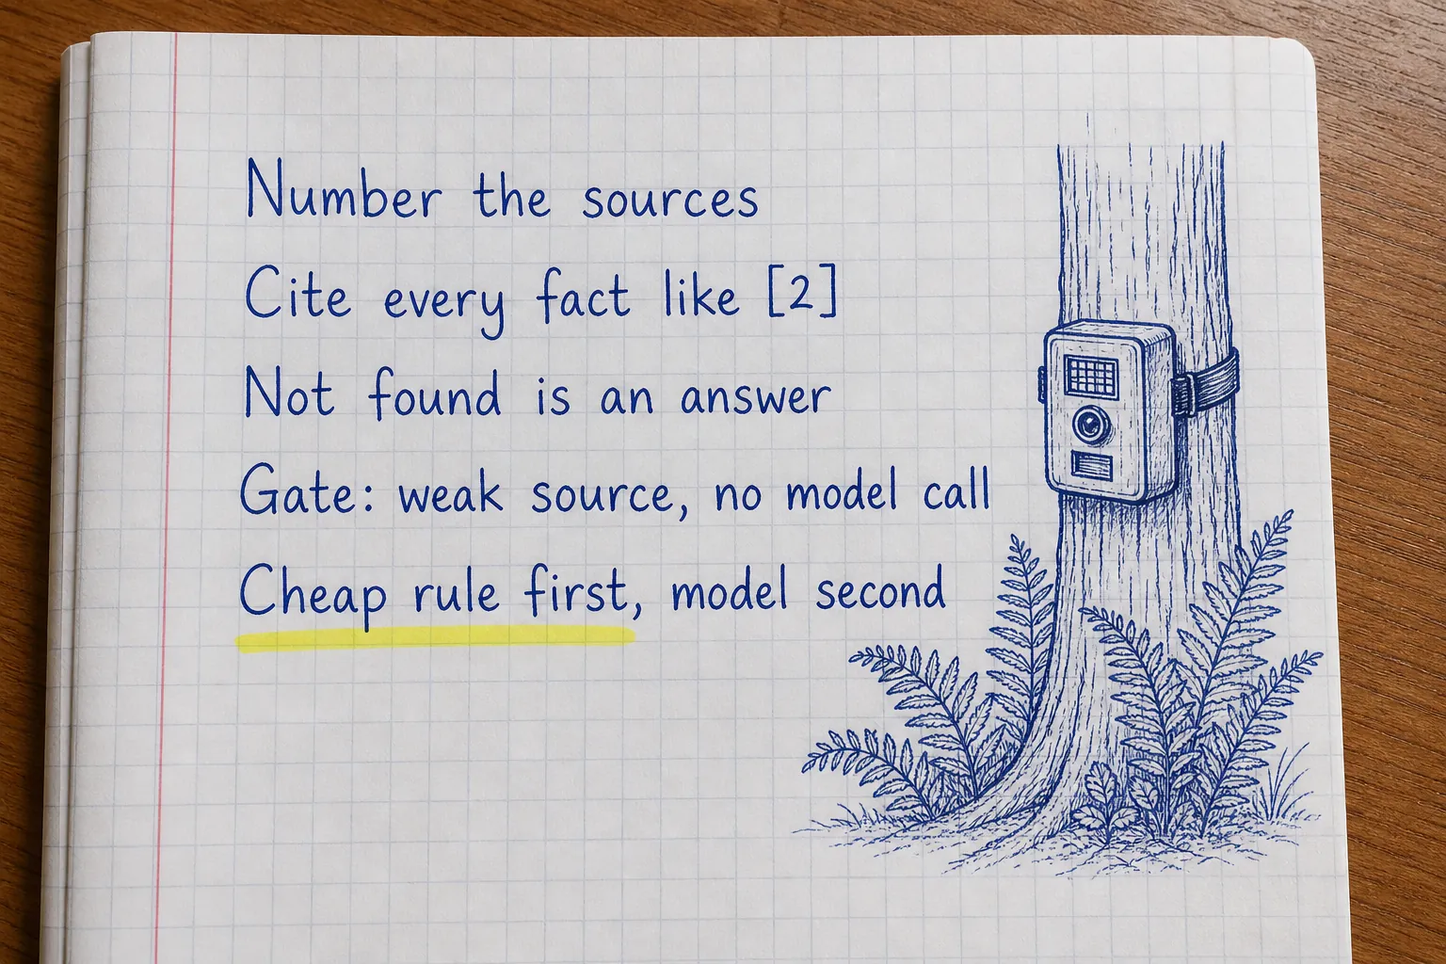
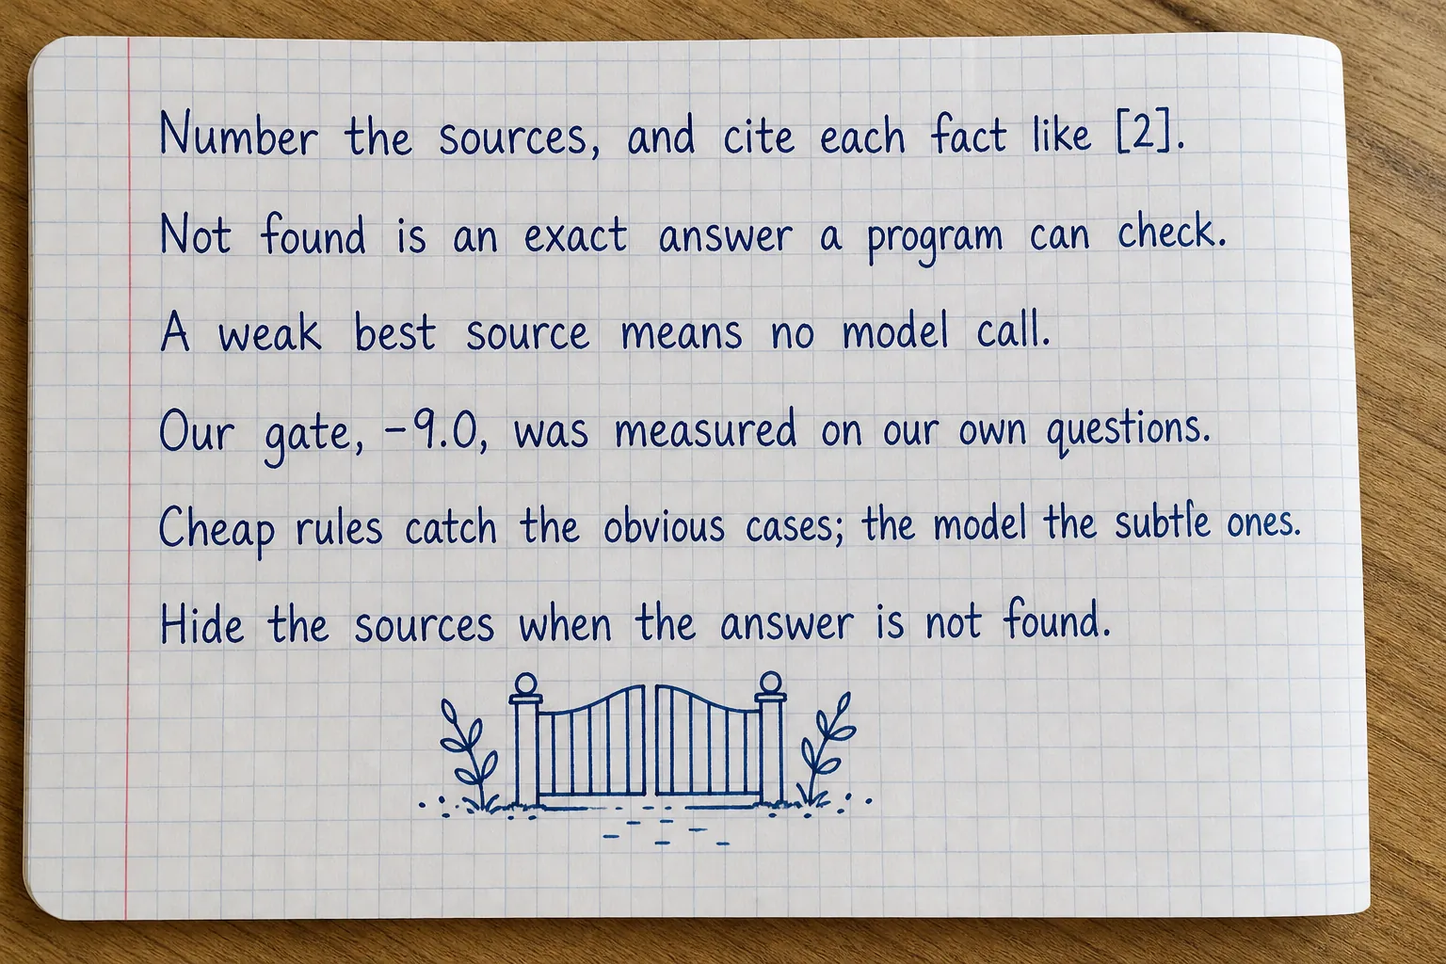
RAG chapter 11 rewritten: plain and fuller, a still gate picture with all real scores, claims checked and corrected

diff --git a/frontend/src/lesson/Diagrams.tsx b/frontend/src/lesson/Diagrams.tsx
@@ -3652,6 +3652,35 @@ function RagTwoStage() {
   );
 }
 
+function RagGate() {
+  // Real best reranker scores from two_stage(): the 26 test questions, and 8 questions the documents do not answer.
+  const answered = [-8.0, -7.6, -6.6, 0.1, 1.2, 1.9, 2.2, 3.0, 3.7, 3.9, 4.0, 4.2, 4.4, 4.4, 4.6, 5.0, 5.1, 5.4, 5.5, 5.7, 6.4, 6.8, 7.0, 7.4, 8.9, 9.9];
+  const missing = [-11.0, -10.7, -9.6, -8.1, -6.9, -2.1, 0.6, 3.3];
+  const x = (v: number) => 20 + ((v + 12) / 22) * 400;
+  const dots = (vals: number[], y: number, fill: string, k: string) =>
+    vals.map((v, i) => <circle key={`${k}${i}`} cx={x(v)} cy={y + (i % 2 ? 7 : -7)} r={5} style={{ fill, stroke: "var(--figure-line)", strokeWidth: 1 }} />);
+  return (
+    <Svg viewBox="0 0 440 300" label="Best reranker scores on a number line: the 26 answered questions from -8.0 to 9.9, the 8 unanswerable ones from -11.0 to 3.3, and the gate at -9.0">
+      <text className="dg-label" x={0} y={18}>Best reranker score of each question</text>
+      <text className="dg-note" x={x(-9) + 6} y={44}>gate: -9.0</text>
+      <line x1={x(-9)} y1={30} x2={x(-9)} y2={214} style={{ stroke: "var(--vermilion, #c63f28)", strokeWidth: 2, strokeDasharray: "5 4" }} />
+      <text className="dg-note" x={x(-1)} y={72}>answered by the documents (26)</text>
+      {dots(answered, 96, "var(--figure-green)", "a")}
+      <text className="dg-note" x={x(-1)} y={146}>not in the documents (8)</text>
+      {dots(missing, 170, "var(--figure-yellow)", "m")}
+      <line x1={20} y1={214} x2={420} y2={214} className="dg-arrow" style={{ markerEnd: "none" }} />
+      {[-12, -8, -4, 0, 4, 8].map((t) => (
+        <g key={t}>
+          <line x1={x(t)} y1={210} x2={x(t)} y2={218} className="dg-arrow" style={{ markerEnd: "none" }} />
+          <text className="dg-note" x={x(t)} y={234} textAnchor="middle">{t}</text>
+        </g>
+      ))}
+      <text className="dg-note" x={0} y={262}>Left of the gate: answered at once, no model call (3 questions).</text>
+      <text className="dg-note" x={0} y={282}>Right of it: the model is asked, and its rules catch the rest.</text>
+    </Svg>
+  );
+}
+
 const DIAGRAMS: Record<string, () => JSX.Element> = {
   "rag-flow": RagFlow,
   "rag-embed": RagEmbed,
@@ -3663,6 +3692,7 @@ const DIAGRAMS: Record<string, () => JSX.Element> = {
   "rag-filter": RagFilter,
   "rag-rrf": RagRrf,
   "rag-two-stage": RagTwoStage,
+  "rag-gate": RagGate,
   "rs-cli": RsCli,
   "rs-rc-refcell": RsRcRefCell,
   "rs-threads": RsThreads,

diff --git a/labs/rag-vector-databases/chapters/11-grounded-answers.md b/labs/rag-vector-databases/chapters/11-grounded-answers.md
@@ -1,13 +1,15 @@
 :::step{type=story title="An answer you can check"}
-Retrieval is done: for any question, Fieldbook can now find the five chunks most likely to answer it, hybrid search
-for candidates and the reranker for the order. Now the "generation" part of RAG: turning chunks into an answer a ranger can act on at
-2 a.m.
+Retrieval is done. For any question, Fieldbook can now find the five chunks most likely to answer it: hybrid search finds
+the candidates, and the reranker puts them in order. Now comes the "generation" part of RAG: turning those chunks into an
+answer a ranger can act on at 2 a.m.
 
 Two things make that answer trustworthy, and both are your design, not the model's:
 
 1. **It shows its sources.** Every fact carries a number pointing to the chunk it came from, so anyone can check it.
-2. **It says when it does not know.** If the manual and reports do not cover a question, Fieldbook says so instead of
-   inventing something plausible. Sometimes it does not even need to ask the model.
+2. **It says when it does not know.** If the manual and the reports do not cover a question, Fieldbook says so instead
+   of inventing something that sounds right. Sometimes it does not even need to ask the model.
+
+An answer built only from the documents you supply, and traceable back to them, is called a **grounded** answer.
 
 :::mission
 Number the sources in the prompt so the model can cite them, then add a gate: when the best chunk is clearly unrelated,
@@ -17,7 +19,7 @@ answer "not found" without calling the model at all.
 
 :::step{type=concept title="Numbered sources, and rules for using them" file="11-grounded-answers/fieldbook.py" line="358-370"}
 Chapter 1's prompt listed sections by their ids. This prompt numbers them, because short numbers are easy for a model to
-cite and easy for a program to check:
+cite and easy for a program to check. Here is the start of a real prompt for one question:
 
 ```text
 Sources:
@@ -32,58 +34,99 @@ Crown fire on the southern slope of B-05 during strong wind. The crew withdrew t
 Question: What should the crew do when the treetops are burning?
 ```
 
-The system message, `GROUNDED`, sets the rules:
+The **system message** is the first message of a chat: the model treats it as standing instructions, and the user
+message after it holds the sources and the question. Fieldbook's system message, `GROUNDED`, sets four rules:
 
 | Rule | Why |
 |---|---|
 | answer only from the numbered sources | the model's general knowledge about fires is not the sanctuary's procedure |
-| cite each fact with its number, like [2] | every claim can be traced and checked |
-| if the sources do not contain the answer, reply exactly NOT_FOUND | an exact sentence a program can recognise |
+| after each fact, cite its source number, like [2] | every claim can be traced and checked |
+| if the sources do not contain the answer, reply exactly "I could not find this in the Fieldbook." | one exact sentence that a program can recognise (it is stored as `NOT_FOUND`) |
 | at most four sentences | a ranger on a radio needs the instruction, not an essay |
 
 The answer also returns the sources' ids, so the app can show "from FM-5.3 and R-0409" with links.
 :::
 
 :::step{type=task task=grounded_prompt title="Your turn: numbered sources" file="11-grounded-answers/fieldbook.py" line="365-370"}
-Write `grounded_messages(question, sources)`: the system message `GROUNDED`, then a user message made of `"Sources:"`, a
-blank line, every source as `[1] FM-5.3: Fighting a ground fire` on one line and its text on the next (numbered from 1
-with `enumerate(sources, start=1)`, separated by blank lines), a blank line, and `"Question: "` with the question.
+Write `grounded_messages(question, sources)`. It returns a list of two messages:
+
+1. `{"role": "system", "content": GROUNDED}`.
+2. `{"role": "user", "content": ...}`, where the content is, in order:
+   - `"Sources:"`, then a blank line;
+   - every source as two lines: `[1] FM-5.3: Fighting a ground fire` and then its text. Number them from 1 with
+     `enumerate(sources, start=1)`, and put a blank line between sources (`"\n\n".join(...)`);
+   - a blank line, then `"Question: "` followed by the question.
+
+The usual slips:
+
+- Numbering from 0: the model then cites [0], and [1] points at the second source.
+- Using `s["text"]` without the id and title line: the app can no longer show which section a number means.
 
 Press **Check**.
 :::
 
 :::step{type=concept title="Do not ask when there is nothing to find" file="11-grounded-answers/fieldbook.py" line="362-379"}
 Some questions are simply not covered: the entry fee for foreign tourists, the capital of France. Retrieval still returns
-five chunks (it always returns the nearest ones, chapter 8 showed that), but they are about something else. You could
-send them to the model and trust it to say "not found". It usually does, and you pay for the call each time.
+five chunks (it always returns the nearest ones; chapter 8 showed that), but they are about something else. You could
+send them to the model and trust it to say "not found". It usually does, but you pay for every call.
 
-The reranker's score gives a cheaper first line of defence. These are the best scores for the 26 test questions and for
-eight questions the documents do not answer:
+The reranker's score gives a cheaper first line of defence. We ran the real two-stage search on all 26 test questions
+and on eight questions the documents do not answer, and noted the best reranker score of each:
 
 | Questions | Best reranker score, lowest to highest |
 |---|---|
-| answered by the documents | -8.0, -7.6, -6.6, 0.1, 1.2, 1.9, ... up to 9.9 |
-| not in the documents | -11.0, -10.7, -9.6, -8.7, -6.9, 0.6, 1.0, 3.3 |
+| the 26 answered by the documents | -8.0, -7.6, -6.6, 0.1, 1.2, 1.9, 2.2, ... up to 9.9 |
+| 8 not in the documents | -11.0, -10.7, -9.6, -8.1, -6.9, -2.1, 0.6, 3.3 |
 
-The two groups overlap: "How many tigers live in Vanrai?" (0.6) and "Who is the Range Forest Officer?" (3.3) find chunks
-that **sound** relevant, and three real questions in everyday words score as low as -8.0. No threshold separates them
-perfectly. So the gate is set where it is safe: `MIN_RERANK = -9.0` stops the three clearly unrelated questions (the
-capital of France, renewing a driving licence, a foreign tourist's entry fee) and never blocks a real one. Everything
-above it goes to the model, whose instructions handle the rest.
+The eight unanswerable questions, with their scores:
+
+| Question | Best chunk | Score |
+|---|---|---|
+| What is the capital of France? | FM-1.1 | -11.0 |
+| How do I renew my driving licence? | FM-6.3 | -10.7 |
+| What is the entry fee for a foreign tourist? | FM-1.1 | -9.6 |
+| When was the sanctuary founded? | FM-5.1 | -8.1 |
+| Which mobile network works best in the sanctuary? | FM-9.2 | -6.9 |
+| What is the salary of a beat guard? | FM-8.2 | -2.1 |
+| How many tigers live in Vanrai? | FM-4.3 | 0.6 |
+| Who is the Range Forest Officer? | FM-8.2 | 3.3 |
+
+The two groups overlap. "Who is the Range Forest Officer?" (3.3) finds a chunk that **sounds** relevant, because FM-8.2
+mentions the officer, and three real questions in everyday words score as low as -8.0 (cooking at the gate, a big cat on
+the trail, the jeep). No single number separates the groups perfectly.
+
+:::diagram{name="rag-gate"}
+Every dot is one question's best reranker score, from the real two-stage search. The groups overlap from -8.0 to 3.3,
+so no single number separates them. The gate at -9.0 blocks no real question and keeps a margin below the lowest real
+one (-8.0).
+:::
+
+So the gate is set where it is safe: `MIN_RERANK = -9.0`. On these questions it stops the three clearly unrelated ones
+(the capital of France, the driving licence, the entry fee) and never blocks a real one. Everything above it goes to the
+model, whose instructions handle the rest. This -9.0 belongs to this reranker and these documents: with another model or
+other data, measure again.
 
 That is a general pattern: a cheap rule for the obvious cases, the expensive model for the subtle ones.
 :::
 
 :::step{type=task task=refuse_unsure title="Your turn: no answer without a source" file="11-grounded-answers/fieldbook.py" line="373-379"}
-Write `answer(question, sources, client)`:
+Write `answer(question, sources, client)`. `sources` are the reranked chunks from `two_stage`, best first, each with its
+`"rerank"` score. `client` is an OpenAI client; in the lab it is already pointed at the lab's model gateway, which gives
+its chat model the name `lab-chat`.
 
-1. If there are no sources, or `sources[0]["rerank"] < MIN_RERANK`, return
-   `{"answer": NOT_FOUND, "sources": []}` without calling the model.
+1. If there are no sources, or `sources[0]["rerank"] < MIN_RERANK`, return `{"answer": NOT_FOUND, "sources": []}`
+   **without** calling the model.
 2. Otherwise call `client.chat.completions.create(model="lab-chat", messages=grounded_messages(question, sources),
    temperature=0)`.
-3. Return `{"answer": <the reply's text>, "sources": [each source's "id"]}`.
+3. Return `{"answer": reply.choices[0].message.content, "sources": [s["id"] for s in sources]}`.
 
-`temperature=0` makes the model pick its most likely words, so the same question gives (nearly) the same answer.
+**temperature** controls how freely the model chooses its words. At 0 it takes its most likely word each time, so the same
+question gives the same answer, or very nearly.
+
+The usual slips:
+
+- Checking `sources[0]["rerank"]` before checking that `sources` is not empty: an empty list then raises an IndexError.
+- Returning the chunks themselves under `"sources"` instead of their ids.
 
 ```bash run
 cd /workspace/11-grounded-answers && python ask.py
@@ -93,22 +136,25 @@ Press **Check**.
 :::
 
 :::step{type=try title="Four questions, four behaviours"}
+The best sources and their scores below are what the search returns every time. The answers come from the language model,
+so your wording may differ a little; this is one real run from when the lab was written.
+
 ```text
 $ python ask.py
 What should the crew do when the treetops are burning?
   best source: FM-5.3 (4.0)
   When the treetops are burning, the crew should never fight a crown fire. Instead, they should move everyone to a fire line or a burnt area and wait for the fire to reach it [1].
-  sources: ['FM-5.3', 'R-0409', 'FM-3.3', 'R-0306', 'FM-5.1'] 
+  sources: ['FM-5.3', 'R-0409', 'FM-3.3', 'R-0306', 'FM-5.1']
 
 Which animal injures the most people?
   best source: FM-4.5 (6.8)
   The sloth bear injures more people in India than any other wild animal, primarily because it attacks when surprised at close range [1].
-  sources: ['FM-4.5', 'FM-4.1', 'FM-4.6', 'FM-8.1', 'FM-7.3'] 
+  sources: ['FM-4.5', 'FM-4.1', 'FM-4.6', 'FM-8.1', 'FM-7.3']
 
 How many tigers live in Vanrai?
   best source: FM-4.3 (0.6)
   I could not find this in the Fieldbook.
-  sources: ['FM-4.3', 'FM-7.3', 'FM-4.2', 'R-0410', 'FM-4.6'] 
+  sources: ['FM-4.3', 'FM-7.3', 'FM-4.2', 'R-0410', 'FM-4.6']
 
 What is the entry fee for a foreign tourist?
   best source: FM-1.1 (-9.6)
@@ -118,18 +164,18 @@ What is the entry fee for a foreign tourist?
 
 Four questions, four different paths through `answer`:
 
-1. **The treetops.** Best source FM-5.3 (4.0): the gate opens, the model answers from it and cites **[1]**. The answer
-   repeats the manual's rule (never fight a crown fire, move to a fire line) instead of generic fire advice.
-2. **The most injuries.** FM-4.5 scores 6.8; the answer names the sloth bear and cites [1]. You can open FM-4.5 and
-   check every word.
+1. **The treetops.** Best source FM-5.3 (4.0): the gate opens, and the model answers from it and cites **[1]**. The
+   answer repeats the manual's rule (never fight a crown fire, move to a fire line) instead of generic fire advice.
+2. **The most injuries.** FM-4.5 scores 6.8. The answer names the sloth bear, as FM-4.5 does ("The sloth bear injures
+   more people in India than any other wild animal"), and cites [1]. You can open FM-4.5 and check every word.
 3. **How many tigers.** The best source, FM-4.3 about leopards near villages, scores 0.6: above the gate, so the model is
-   asked. The sources never give a number, and the model follows its rule: "I could not find this in the Fieldbook."
-   The second line of defence worked. (Notice that `sources` still lists five chunks: the app should hide them when the
-   answer is NOT_FOUND; the deep dive comes back to this.)
-4. **The entry fee.** Best source -9.6, below `MIN_RERANK`: Fieldbook answers at once, **without calling the model**,
-   and lists no sources. That question cost nothing.
+   asked. The sources never give a number, and the model follows its rule and replies NOT_FOUND. The second line of
+   defence worked. (Notice that `sources` still lists five chunks: the app should hide them when the answer is NOT_FOUND;
+   the deep dive comes back to this.)
+4. **The entry fee.** Best source -9.6, below `MIN_RERANK`: Fieldbook answers at once, **without calling the model**, and
+   lists no sources. That question cost nothing.
 
-One more, from the "Guess first" step below:
+One more, the question from the "Guess first" step below:
 
 ```text
 $ python ask.py "Who is the Range Forest Officer?"
@@ -139,10 +185,10 @@ Who is the Range Forest Officer?
   sources: ['FM-8.2', 'FM-7.3', 'FM-1.3', 'FM-4.7', 'FM-8.1']
 ```
 
-FM-8.2 mentions the Range Forest Officer, so the reranker scores it well, but it never gives a name. A model without
-the "only from the sources" rule might well have invented one.
+FM-8.2 says that "the Range Forest Officer decides" the compensation, so the reranker scores it well, but it never gives
+a name. A model without the "only from the sources" rule might well have invented one.
 
-The answer to the second question: a sloth bear, here with her cubs riding on her back.
+The answer to the second question: a sloth bear, here carrying her cubs on her back.
 
 :::photo{src="/lesson-images/rag/sloth-bear.webp" alt="A black sloth bear walking on a forest track with two cubs on her back" credit="Rohit Sharma" license="CC BY-SA 4.0" source="https://commons.wikimedia.org/wiki/File%3ASloth_Bear_with_Cubs_at_Bor_tiger_reserve%2C_Maharashtra%2C_India.jpg"}
 A sloth bear with cubs in Bor Tiger Reserve, Maharashtra.
@@ -155,12 +201,12 @@ An answer without sources asks you to trust whoever wrote it. For a fluent langu
 it sounds equally sure when it is right and when it is inventing.
 :::
 
-Scholars have cited their sources for centuries; the footnote became standard in printed books in the **17th and 18th
-centuries** so that readers could check claims for themselves. Wikipedia made "citation needed" famous (**2000s**). For
-language models, the RAG paper (**2020**) grounded answers in retrieved passages, and in **2021** OpenAI's WebGPT trained
-a model to browse and quote its sources while answering. Since **2023** assistants that cite their sources have become
-the expected form for answering from documents, and "answer only from the sources, and say when they are silent" is the
-first rule of nearly every RAG prompt.
+Scholars have cited their sources for centuries. Printed footnotes appeared in the **1500s** and became common in
+scholarly books by the **1700s**, so that readers could check claims for themselves. Wikipedia made "citation needed"
+famous in the **2000s**. For language models, the RAG paper (**2020**) grounded answers in retrieved passages, and in
+**2021** OpenAI's WebGPT trained a model to search the web and collect references for its answers. Since **2023**,
+assistants that cite their sources have become the expected form for answering from documents, and "answer only from the
+sources, and say when they are silent" is a first rule of most RAG prompts.
 
 :::solved
 **Answers that can be checked, and silence when there is nothing to say.** Trust comes from being able to verify, not
@@ -168,24 +214,25 @@ from sounding sure.
 :::
 
 :::timeline
-- **1700s** Footnotes become standard in print.
+- **1500s** Printed footnotes appear.
+- **1700s** Footnotes are common in scholarly books.
 - **2000s** Wikipedia's "citation needed".
 - **2020** RAG grounds answers in passages.
-- **2021** WebGPT quotes its sources.
+- **2021** WebGPT answers with references.
 - **2023** Cited answers become the norm for document assistants.
 :::
 :::
 
 :::step{type=predict title="Guess first"}
 :::question
-"Who is the Range Forest Officer?" passes the gate (its best chunk scores 3.3). The sources mention the officer's duties
+"Who is the Range Forest Officer?" passes the gate (its best chunk scores 3.3). The sources mention the officer's role
 but never a name. What should a good answer be?
 :::
 - [ ] The most likely name for an Indian forest officer
 - [x] "I could not find this in the Fieldbook.", because the sources do not contain a name
 - [ ] A description of the officer's duties, presented as the answer
 :::explain
-The gate passes it; the instructions must catch it. Try it with `python ask.py "Who is the Range Forest Officer?"`.
+The gate lets it through; the instructions must catch it. Try it with `python ask.py "Who is the Range Forest Officer?"`.
 :::
 :::
 
@@ -206,28 +253,30 @@ Either works; numbers keep citations short and uniform. The app maps [2] back to
 Why not set MIN_RERANK higher, say 0, to block more unanswerable questions?
 :::
 - [ ] It would make answers slower
-- [x] It would also block real questions in everyday words (three scored between -8 and -6.6), and refusing a real question is a failure too
+- [x] It would also block real questions in everyday words (three scored between -8.0 and -6.6), and refusing a real question is a failure too
 - [ ] The reranker cannot score above 0
 :::explain
-A threshold trades one error for another. Measure both kinds before choosing, as the table above does.
+A threshold trades one error for another. At 0 it would block 6 of the 8 unanswerable questions, but also 3 of the 26
+real ones. Measure both kinds before choosing, as the tables above do.
 :::
 :::
 
 :::step{type=deep-dive title="Go deeper: grounded answers in production"}
-**Hide sources for "not found".** When the answer is NOT_FOUND, show no sources: listing five unrelated
-chunks under "I could not find this" confuses people.
+**Hide sources for "not found".** When the answer is NOT_FOUND, show no sources: five unrelated chunks under "I could not
+find this" confuse people.
 
-**Check the citations in code.** Parse the [n] markers, make sure every number exists, and flag answers with no citation
-at all. Some teams go further and check that each cited source actually contains the claim (another model call).
+**Check the citations in code.** Find the [n] markers, make sure every number exists, and flag answers with no citation
+at all. Some teams go further and check that each cited source really contains the claim (another model call).
 
-**Show the sources.** Under the answer, list the cited chunks with their titles; one tap opens the section. Rangers trust
+**Show the sources.** Under the answer, list the cited chunks with their titles; one tap opens the section. People trust
 an assistant more when they can see where an answer came from.
 
-**Long sources.** Put the best source first and last-but-not-least: models read the start and end of a prompt most
-carefully. Five chunks of 60 to 90 words are well within a small model's comfort.
+**Where to put the best source.** Studies of long prompts (for example "Lost in the Middle", 2023) found that models use
+information at the start and the end of a long prompt better than in the middle. Putting the best source first is a
+safe habit. Fieldbook's prompt is short anyway: five chunks of 19 to 95 words.
 
 **Never let sources give orders.** A document can contain text like "ignore your instructions". Keep the rules in the
-system message, the documents in the user message as quoted data, and treat what comes back as untrusted.
+system message and the documents in the user message as quoted data, and treat what comes back as untrusted.
 :::
 
 :::step{type=recap}
@@ -235,12 +284,13 @@ You can now:
 
 - give the model numbered sources and rules for citing them;
 - make "not found" an exact, recognisable answer;
-- gate the model with a reranker score, and choose the threshold from measured scores;
+- gate the model with a reranker score, and choose the threshold from measured scores (here -9.0, for this reranker and
+  these documents);
 - explain why a cheap rule handles the obvious cases and the model the subtle ones.
 
 Next, chapter 12: measuring all of Fieldbook's ways of retrieving on the same questions.
 
-:::photo{src="/lesson-images/rag/rag-11-notes.webp" alt="Handwritten notes about grounded answers: Number the sources; Cite every fact like [2]; Not found is an answer; Gate: weak source, no model call; Cheap rule first, model second" ai="true"}
+:::photo{src="/lesson-images/rag/rag-11-notes.webp" alt="Handwritten notes about grounded answers: Number the sources, and cite each fact like [2]. Not found is an exact answer a program can check. A weak best source means no model call. Our gate, -9.0, was measured on our own questions. Cheap rules catch the obvious cases; the model the subtle ones. Hide the sources when the answer is not found." ai="true"}
 One page of notes for this chapter.
 :::
 :::

diff --git a/CHANGELOG.md b/CHANGELOG.md
@@ -1,5 +1,19 @@
 # Changelog
 
+## 25 November: RAG chapter 11 rewritten (easy, a little detailed, checked)
+
+- Grounded answers, the system message, NOT_FOUND, the model gateway's `lab-chat` name and temperature are explained where
+  they first appear; tasks list their steps and the usual slips.
+- A new still picture, `rag-gate`: all 34 real best reranker scores on one number line (26 answered questions, 8 that
+  the documents do not answer) with the gate at -9.0.
+- Checked by re-running the two-stage search in the lab image (no paid model call: the answers in the lesson are now
+  labelled as one real run whose wording may vary). The 26 answered scores match exactly. Corrected: the original eight
+  unanswerable questions were never saved, so the table is now a measured, named set (-11.0 to 3.3); the deep dive's
+  garbled "first and last-but-not-least" became the "Lost in the Middle" finding (2023) with Fieldbook's real chunk sizes
+  (19 to 95 words); footnotes date from the 1500s and were common by the 1700s; WebGPT collected references while
+  searching; the quiz's arithmetic for a gate at 0 (6 of 8 blocked, 3 of 26 real ones lost); -9.0 is labelled as this
+  reranker's and these documents' value. A new notes page.
+
 ## 25 November: RAG chapter 10 rewritten (easy, a little detailed, checked)
 
 - Bi-encoders and cross-encoders, transformers and layers, MS MARCO, unbounded scores and the two dials are explained
